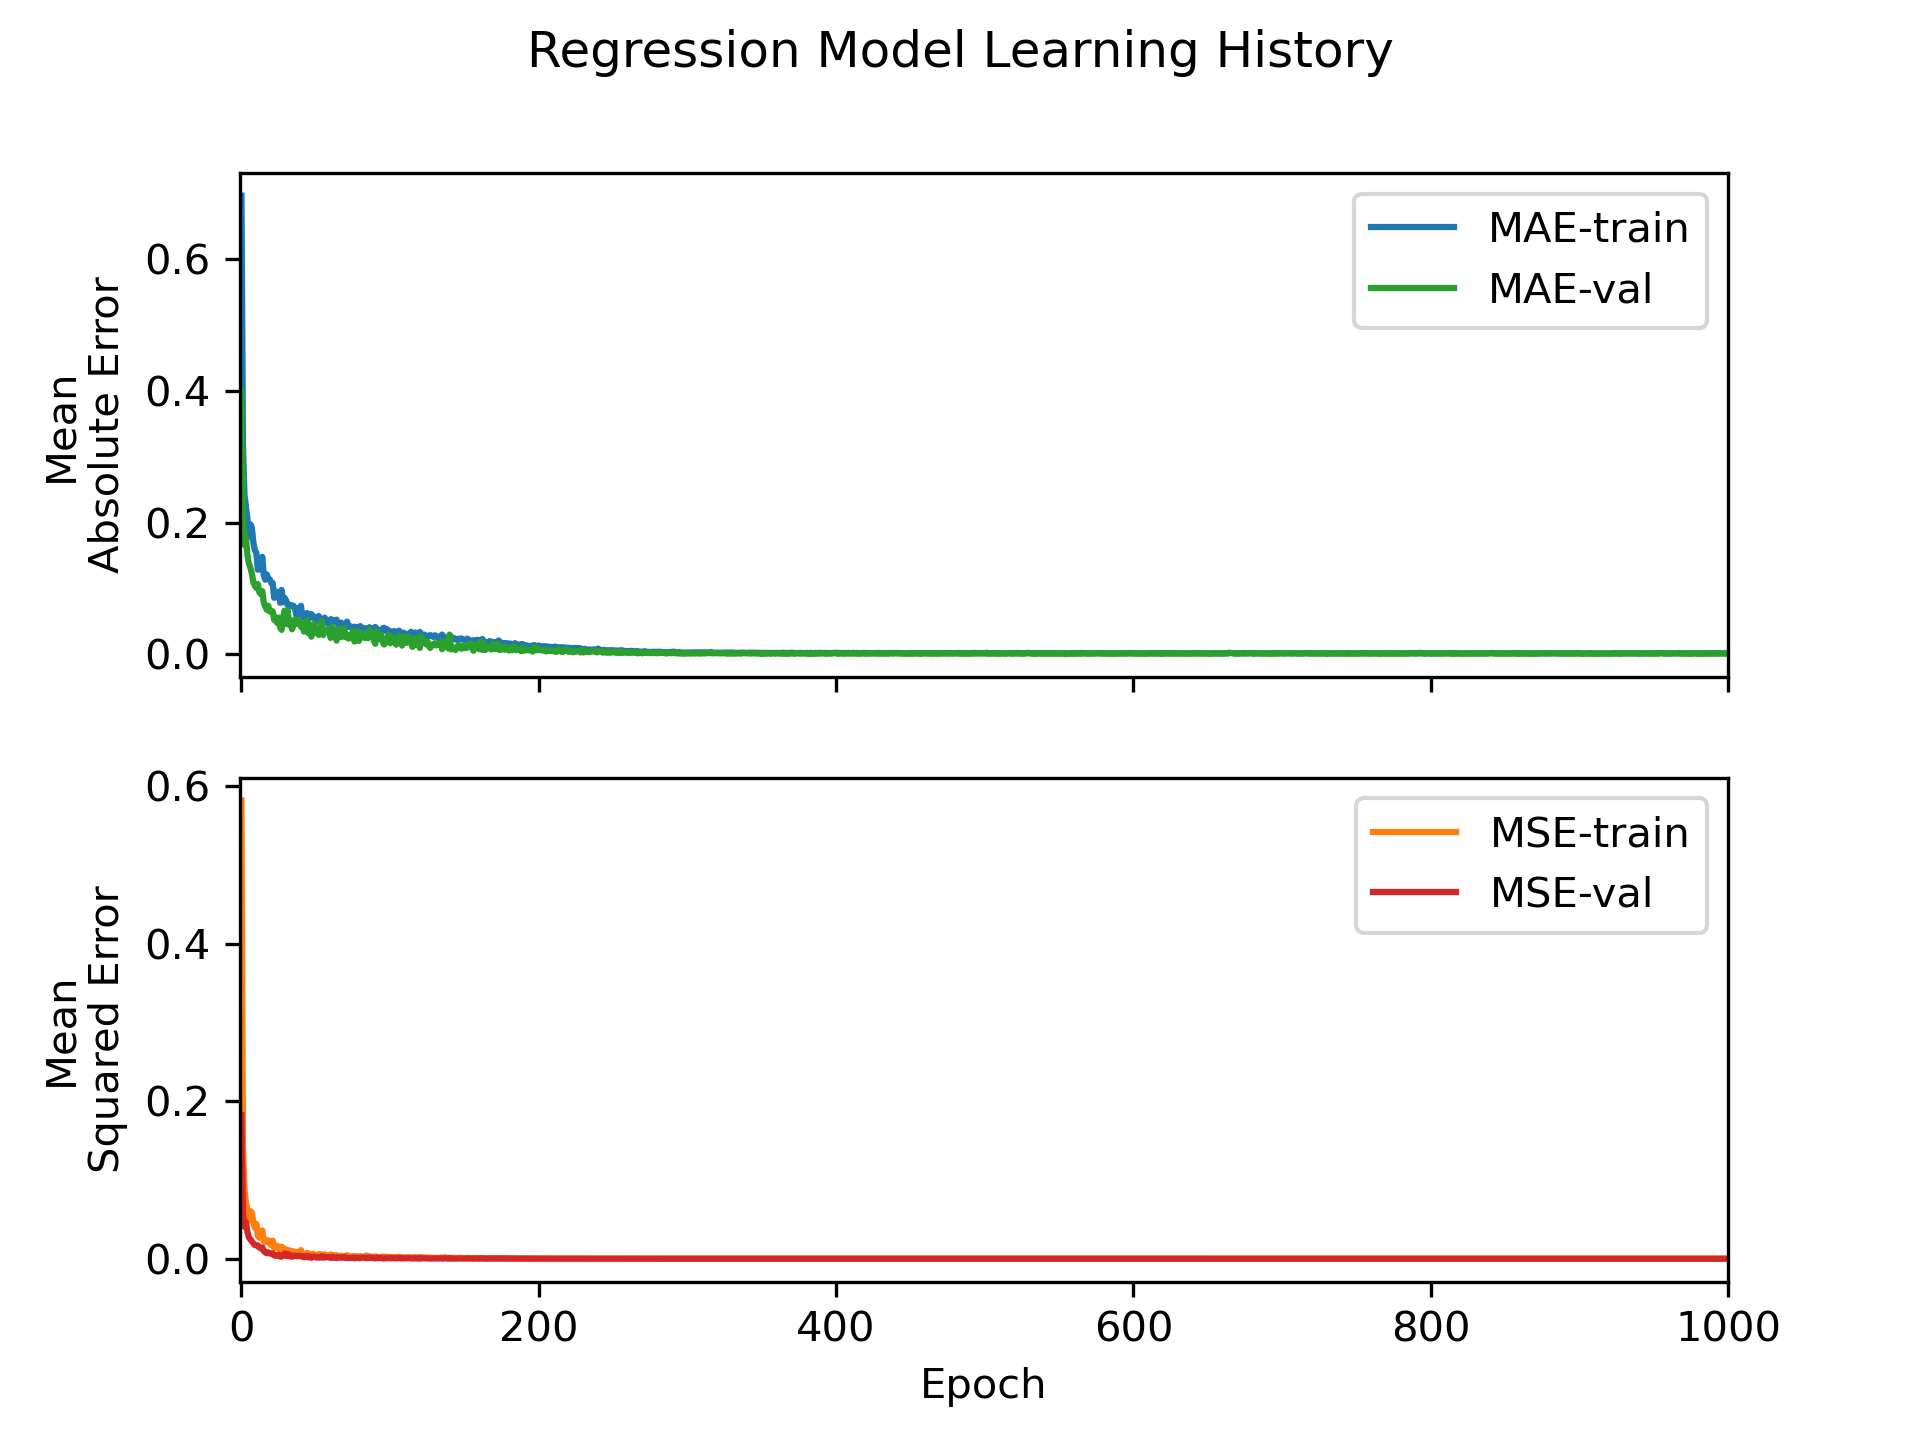
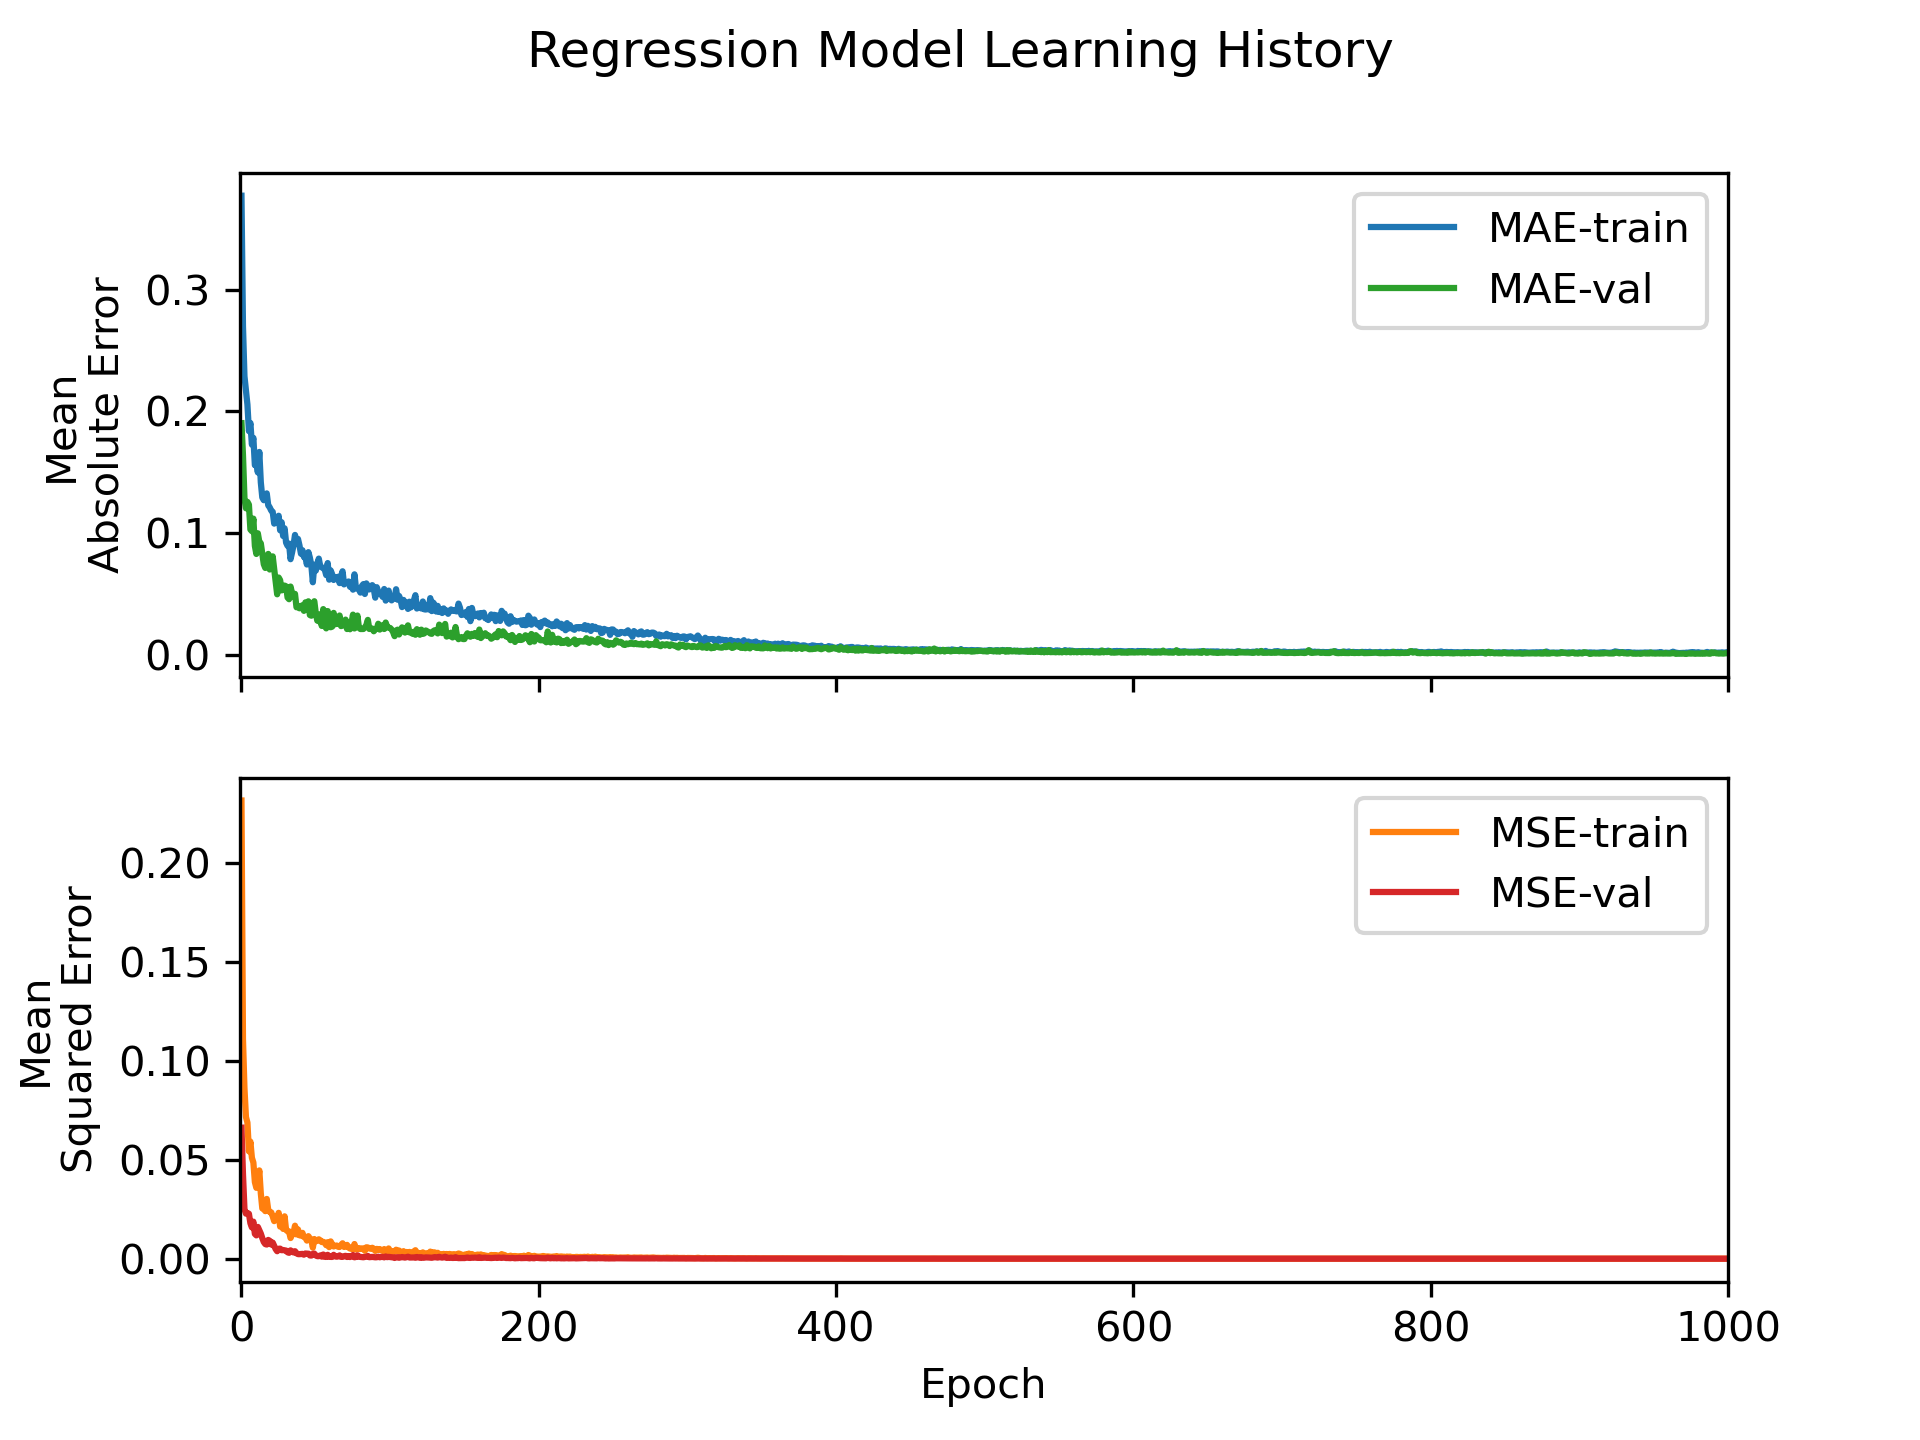
update

diff --git a/ml_regression.py b/ml_regression.py
@@ -80,9 +80,9 @@ def model_gridsearch(
         model: Union[KerasRegressor, Pipeline],
         Xdata: np.ndarray,
         ydata: np.ndarray,
-        param_grid: Dict[str, iter],
+        para_grid: Dict[str, iter],
         cv: int = 5
-        ) -> [Union[KerasRegressor, Pipeline], object]:
+) -> [Union[KerasRegressor, Pipeline], object]:
     """
     Gridsearch for given hyper-parameters
 
@@ -92,7 +92,7 @@ def model_gridsearch(
         features training data to carry out gridsearch with
     :param ydata: np.ndarray:
         corresponding training data output
-    :param param_grid: Dict:
+    :param para_grid: Dict:
         parameters to evaluate with gridsearch, key: parameter, item: iterable
     :param cv: int: default= 5:
         number of splits carried out by KFold for cross validation
@@ -106,7 +106,7 @@ def model_gridsearch(
 
     grid = GridSearchCV(
         estimator=model,
-        param_grid=param_grid,
+        param_grid=para_grid,
         n_jobs=-1,
         cv=kfold,
         scoring={'r2': 'r2', 'MAE': 'neg_mean_absolute_error', 'MSE': 'neg_mean_squared_error'},
@@ -118,9 +118,9 @@ def model_gridsearch(
     logger.info('-' * 65)
     logger.info(f'Parameter grid: ')
     logger.info('-' * 65)
-    for key, value in param_grid.items():
+    for key, value in para_grid.items():
         logger.info(f'{key} - {value}')
-    logger.info('-'*65)
+    logger.info('-' * 65)
     gd_result = grid.fit(Xdata, ydata)
     best_estimator = gd_result.best_estimator_
 
@@ -130,7 +130,7 @@ def model_gridsearch(
     logger.info(f'Params:')
     for key, value in gd_result.best_params_.items():
         logger.info(f'{key}: {value}')
-    logger.info('-'*65)
+    logger.info('-' * 65)
 
     logger.info('Results:')
     logger.info('-' * 65)
@@ -149,7 +149,7 @@ def score_train(
         ydata: np.ndarray,
         cv_splits: int = 10,
         cv_repeats: int = 5
-        ) -> [Union[KerasRegressor, Pipeline], Dict]:
+) -> [Union[KerasRegressor, Pipeline], Dict]:
     """
     Score a model/pipeline on it's training set, using RepeatedKFold cross validation.
 
@@ -295,36 +295,79 @@ def train_history(model: Union[KerasRegressor, Pipeline]):
     logger.info(f'Figure saved - {png_name_}')
 
 
-def split_dataset(df):
+def split_dataset(df: pd.DataFrame, split_frac: float = 0.2) -> [np.ndarray, np.ndarray, np.ndarray, np.ndarray]:
+    """
+    Separate dataset into features and results. Final column is results.
+    Then split into training and test splits.
+
+    :param df: Dataframe:
+        Dataset to separate and then split
+    :param split_frac: float:
+        Fraction of data to split into test
+    :return x_tr: np.ndarray:
+        Features training set
+    :return x_te: np.ndarray:
+        Features test set
+    :return y_tr: np.ndarray:
+        Results training set
+    :return y_te: np.ndarray:
+        Results test set
+    """
     dataset = df.values
     x = dataset[:, :-1]
     y = dataset[:, -1]
 
-    x_train, x_test, y_train, y_test = train_test_split(x, y, test_size=0.2)
+    x_tr, x_te, y_tr, y_te = train_test_split(x, y, test_size=split_frac)
     logger.info('Split Dataset into Train and Test')
-    return x_train, x_test, y_train, y_test
+    return x_tr, x_te, y_tr, y_te
 
 
-def create_pipeline(**kwargs):
+def create_pipeline(**kwargs) -> Pipeline:
+    """
+    Create pipeline using input paramters. Made up of StandardScaler and KerasRegressor model
+
+    :param kwargs:
+        Input paramters to create Keras regressor model with SciKeras, i.e.
+        model=get_regression,
+        model__init_mode='glorot_normal',
+        model__dropout=0.1,
+        model__hidden_layer_sizes=(30, 30),
+        optimizer='adam',
+        optimizer__learning_rate=0.001,
+        loss='mae',
+        metrics=['MAE', 'MSE'],
+        batch_size=10,
+        epochs=500,
+        verbose=0,
+    :return p: Pipeline:
+        Pipeline made up of standard scaler and keras regressor
+    """
     reg = KerasRegressor(**kwargs)
     p = Pipeline([
         ('scaler', StandardScaler()),
         ('reg', reg),
-        ])
+    ])
     return p
 
 
-def plot_grid_results(gd_results: GridSearchCV, comp_variable:str):
+def plot_grid_results(gd_results, comp_variable: str):
+    """
+    Plot gridsearchcv scores relative to a variable within the param grid.
+
+    :param gd_results:
+        Grid results from the GridsearchCV
+    :param comp_variable: str
+        variable to plot on the x-axis, must be able to uniquely identify one parameter in the grid
+    """
     params = list(gd_results.param_grid.keys())
     param = [p for p in params if comp_variable in p]
-    title = f'GridSearchCV results comparing {comp_variable}'
     param = 'param_' + param[0]
 
     # Get the regular numpy array from the MaskedArray
     x_axis = np.array(gd_results.cv_results_[param].data, dtype=float)
     for scorer, color in zip(sorted(gd_results.scoring), ['C0', 'C1', 'C2', 'C3', 'C4', 'C5', 'C6', 'C7', 'C8']):
         plt.figure()
-        plt.title(f'GridSearchCV results comparing {comp_variable}', fontsize=16)
+        plt.title(f'GridSearchCV results comparing {comp_variable}')
         plt.xlabel(comp_variable.capitalize())
         plt.ylabel("Score")
         ax = plt.gca()
@@ -355,7 +398,7 @@ if __name__ == '__main__':
     logger.info('=' * 65)
     exp = load(file='Test 5')
     logger.info('Loaded Dateset')
-    dataframe = exp.features.drop(columns=['Runout', 'Form error', 'Freq 10 kHz', 'Freq 134 kHz'])
+    dataframe = exp.features.drop(columns=['Runout', 'Form error']).drop([0, 1, 23, 24])
 
     pipe = create_pipeline(
         model=get_regression,
@@ -369,7 +412,7 @@ if __name__ == '__main__':
         batch_size=10,
         epochs=500,
         verbose=0,
-        )
+    )
 
     param_grid = dict(
         # model__init_mode=['lecun_uniform', 'glorot_normal', 'glorot_uniform', 'he_normal', 'he_uniform'],
@@ -377,19 +420,19 @@ if __name__ == '__main__':
         # model__dropout=[0, 0.1, 0.3, 0.5],
         # loss=['mse', 'mae'],
         # batch_size=[5, 8, 10, 15, 25, 32],
-        reg__epochs=np.arange(200, 1025, 25)
+        # reg__epochs=np.arange(200, 1025, 25)
         # optimizer=['adam', 'SGD', 'RMSprop', 'Adagrad', 'Adamax', 'Adadelta'],
         # optimizer__learning_rate=[0.0005, 0.0075, 0.001, 0.0025, 0.005, 0.01],
     )
 
     X_train, X_test, y_train, y_test = split_dataset(dataframe)
 
-    pipe, grid_result = model_gridsearch(model=pipe, Xdata=X_train, ydata=y_train, param_grid=param_grid, cv=10)
-    plot_grid_results(grid_result, 'epochs')
+    # pipe, grid_result = model_gridsearch(model=pipe, Xdata=X_train, ydata=y_train, param_grid=param_grid, cv=10)
+    # plot_grid_results(grid_result, 'epochs')
 
-    # pipe, train_scores = score_train(model=pipe, Xdata=X_train, ydata=y_train)
-    #
-    # pipe.fit(X_train, y_train, reg__validation_split=0.2)
+    pipe, train_scores = score_train(model=pipe, Xdata=X_train, ydata=y_train)
+
+    pipe.fit(X_train, y_train, reg__validation_split=0.2)
     # train_history(pipe)
-    #
-    # test_score = score_test(pipe, X_test, y_test)
+
+    test_score = score_test(pipe, X_test, y_test)
